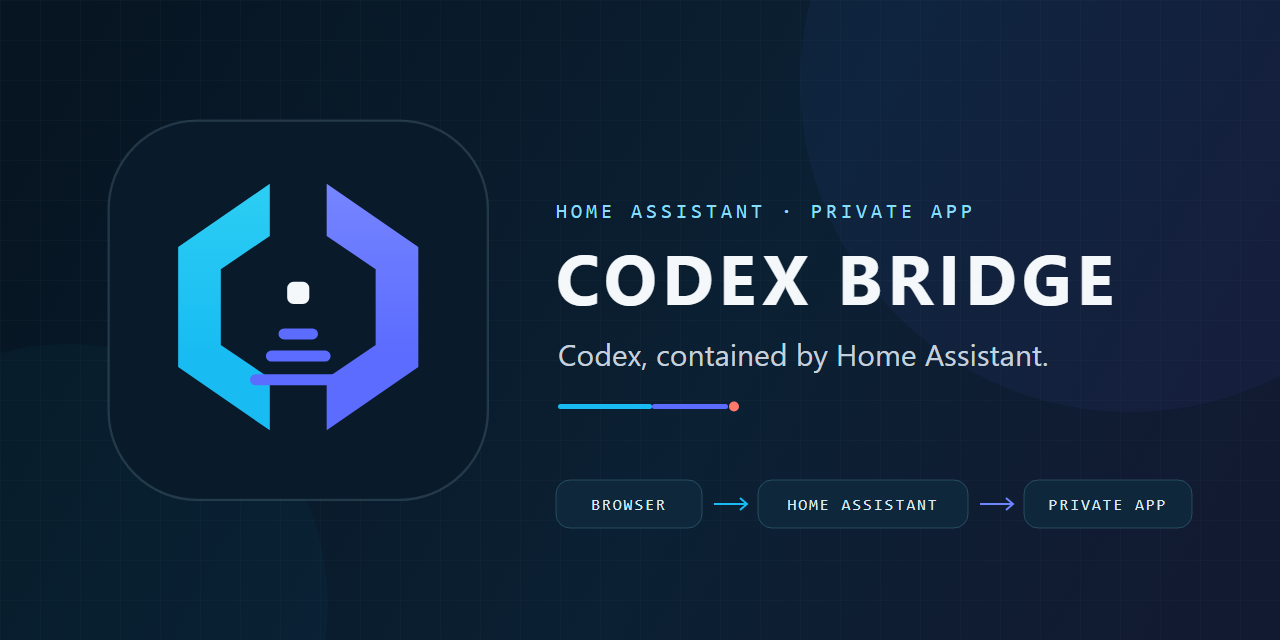
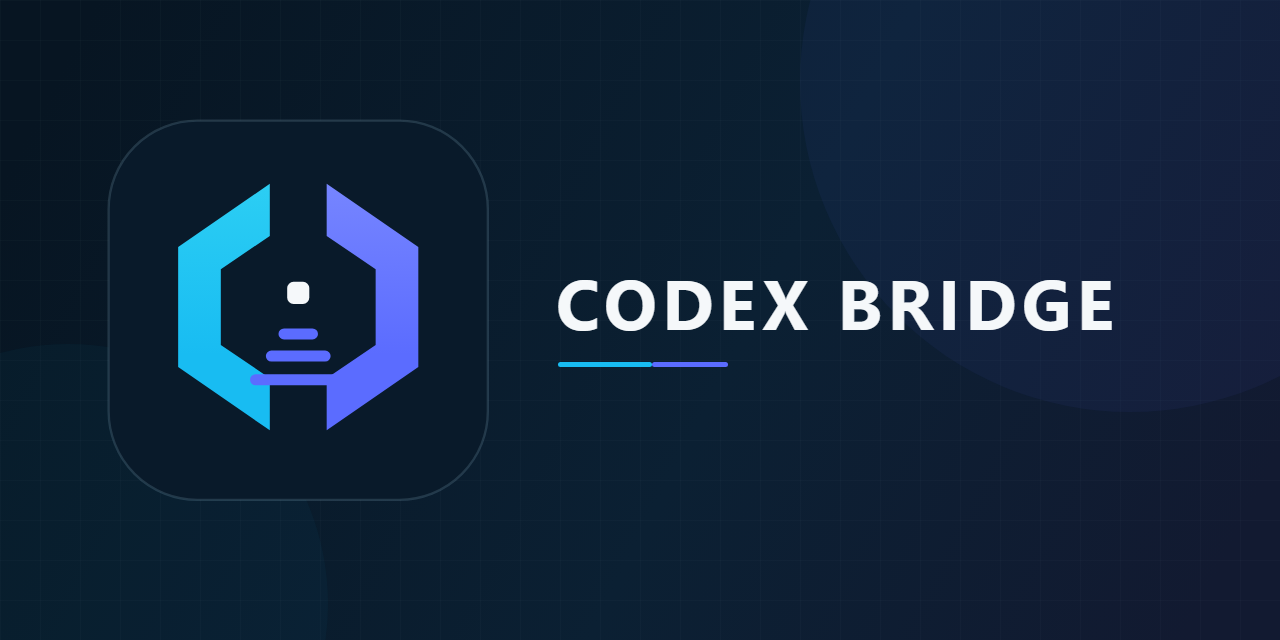
Simplify Codex Bridge header artwork (#127)

diff --git a/brand/README.md b/brand/README.md
@@ -1,8 +1,9 @@
 # Codex Bridge brand assets
 
 The SVG files are the editable sources for the Codex Bridge identity. The PNG
-exports are generated snapshots for Home Assistant, HACS, README rendering,
-and the GitHub social-preview setting.
+exports are generated snapshots for Home Assistant, HACS, and the GitHub
+social-preview setting. The README uses the SVG directly to stay sharp at any
+display size.
 
 Regenerate every PNG copy from the repository root:
 

diff --git a/README.md b/README.md
@@ -1,6 +1,6 @@
 <div align="center">
 
-<img src="brand/logo.png" alt="Codex Bridge - private code, home control" width="720">
+<img src="brand/logo.svg" alt="Codex Bridge symbol and wordmark" width="720">
 
 # Home Assistant Codex Bridge
 
